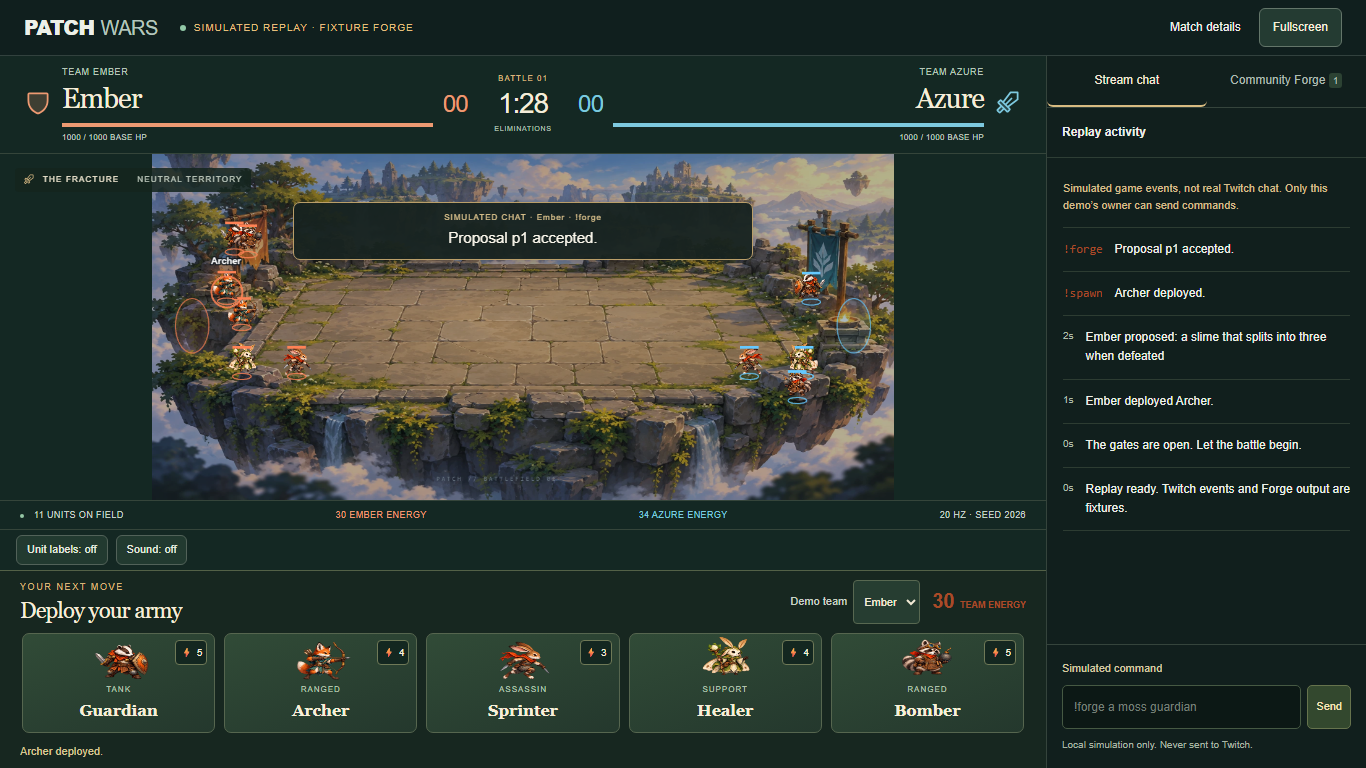
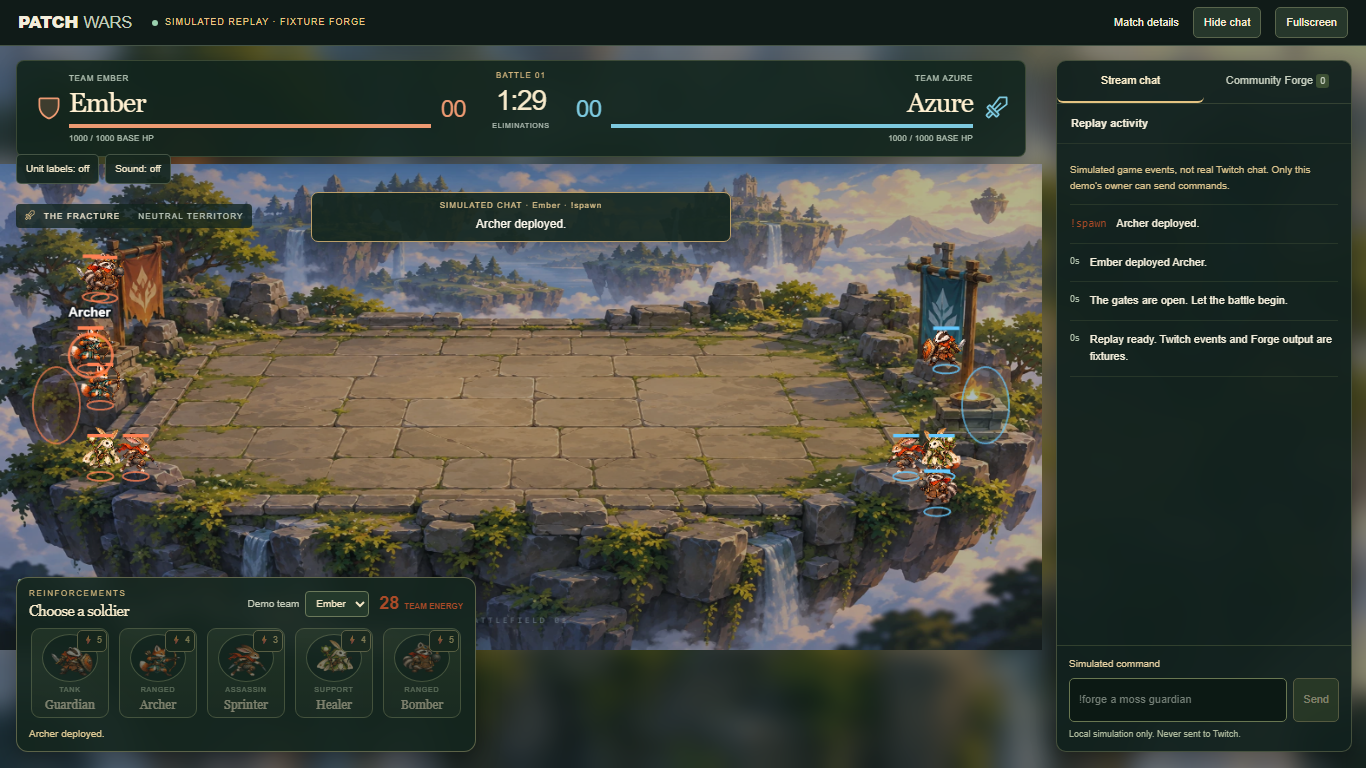
docs(stream): record stage screenshots and regression checks

diff --git a/docs/live-experience.md b/docs/live-experience.md
@@ -5,18 +5,20 @@ The video reference combines a broadcast battle with controls on top of Twitch's
 ## Open the complete web view
 
 1. Open `/dashboard`, create a Twitch match, authorize the broadcaster and start combat.
-2. Select **Live arena**. `/play/<room-id>` fills the browser with the arena, deployment cards and community panel. Fullscreen expands the whole layout. Phones stack the same components without horizontal page scrolling.
+2. Select **Live arena**. `/play/<room-id>` fills the window with a stream stage: compact score HUD, soldier-icon controls floating over the battlefield, and chat in the same viewport. Fullscreen expands the whole layout. On phones, chat docks to the bottom while the battle and soldier icons remain visible above it. **Hide chat / Show chat** changes viewing space without remounting the renderer.
 3. Select **Sign in with Twitch to deploy**. This is viewer authorization, not host access. It uses the existing registered `/auth/twitch/callback` and exact allowed browser origin. The account remains server-side; browser responses never contain OAuth tokens.
 4. Select a unit card to spend the same shared team energy as `!spawn <unit>`. No money or Bits are charged. Cards also include approved generated units as they enter the catalog. The server enforces energy, cooldowns, caps, pause and phase rules, independently of button state.
-5. Select **Load Twitch chat** to embed actual Twitch chat for the selected connected channel. Twitch chat may require its own login and third-party browser storage permission. Use **Open chat** if the browser blocks the embed. The parent parameter is derived from the current hostname, not user input.
+5. Actual Twitch chat loads automatically for the selected connected live channel. Twitch chat may require its own login and third-party browser storage permission. **Unload chat** removes the embed; **Load Twitch chat** restores it. Use **Open chat** if the browser blocks the embed. The parent parameter is derived from the current hostname, not user input.
 6. The game command field sends actions directly to the server under the signed-in viewer's identity; it does not post conversation to Twitch. Conversation belongs in embedded Twitch chat. Both input paths reach the same game handler and share viewer cooldown/vote identity. Receipts distinguish TWITCH CHAT, VIEWER CONTROLS and TWITCH EXTENSION.
 7. The Community Forge tab shows current proposals, phase, generated name/status and balance count. Vote buttons submit the existing `!vote <proposal-id>` command. The host still controls round transitions in the dashboard.
 
 Demo matches remain explicitly labelled simulated/fixture-based. Only the demo owner may send local commands; opening a public demo link does not grant ownership. The new viewer surfaces provide no pause/reset/settings/invitation controls. OBS links remain read-only and control-free.
 
+Open `/stream-demo` for a direct, owned simulation of this stream-stage layout. It creates and starts a fixture room, then navigates to `/play/<room-id>`. This is a local preview, not a Twitch broadcast. The earlier operator dashboard remains available for connection and match management.
+
 ## Native extension: what is implemented
 
-`apps/extension` is a separate transparent video-overlay frontend. It loads the official Twitch Extension Helper as its first script, consumes refreshed `onAuthorized` tokens, requests identity sharing, displays catalog-driven unit cards and submits game commands. It does not render a second battle over the broadcast. OBS supplies the battle video beneath it.
+`apps/extension` is a separate transparent video-overlay frontend. It loads the official Twitch Extension Helper as its first script, consumes refreshed `onAuthorized` tokens, requests identity sharing, displays a compact soldier-icon tray and submits game commands. Extra Forge/command input is behind a disclosure so it does not cover the battle by default. It does not render a second battle over the broadcast. OBS supplies the battle video beneath it.
 
 The EBS routes verify HS256 signatures using the separate, base64-decoded Twitch Extension secret, token expiry, role, channel and linked user identity. A viewer cannot supply a team or another channel. State discovery selects the one connected match for the token's channel. Requests carry UUIDs for duplicate suppression and use the same user ID as ordinary Twitch chat. Only the configured extension CDN origin receives cross-origin API access; other app routes retain their origin and ownership rules. Public extension assets have a separate CSP allowing the helper and Twitch framing; dashboards retain self-only frame ancestors. No signing secret enters the built frontend.
 
@@ -42,6 +44,8 @@ No paid soldier products, Bits transactions, wallet or native-extension approval
 ## Verification
 
 On October 29, 2026, typecheck, lint, the web/server build, the native extension build, all **127 automated tests across 25 files** and the final **23 Chromium browser tests** passed. The complete browser suite used one isolated built server with normal API limits. Screenshots include `screenshots/live-arena-desktop.png` and `screenshots/live-arena-mobile.png`.
+
+The subsequent stream-stage correction was verified again with the same 127 automated and 23 browser checks. The direct `/stream-demo` entry creates an owned room, starts it and opens the stage. The browser test asserts a laptop battle surface over 700 pixels tall in a 768-pixel viewport, an overlaid soldier tray, mobile chat/tray fit within the same screen and a retained canvas when chat is hidden/restored. Chat-embed calls and native Helper authorization remain mocked in those tests. Desktop/mobile screenshots were refreshed after the correction. No new real Twitch broadcast, native extension activation or real chat login was performed.
 
 New tests verify signed-token expiry/signatures/roles, identity linking, channel/team binding, duplicate and cooldown handling, viewer OAuth session binding, callback replay rejection, sign-out and host-permission denial. Browser tests click a real demo unit card and inspect its authoritative entity, inspect desktop/phone fit and community tabs, check live sign-in/chat wiring and run the built native frontend against a mocked Twitch Helper/EBS response. Existing Forge, OBS, settings, mobile, fullscreen and recovery checks still pass. One older paused-command test initially hit the legitimate previous-command cooldown; it now explicitly waits for simulation time to advance before pausing. Game timing/rules were not changed to satisfy the assertion.
 

diff --git a/README.md b/README.md
@@ -84,6 +84,8 @@ Presentation readiness checks private setup without generating AI output. Lazy r
 
 **Live arena** opens `/play/:id`: a full-window battle, clickable unit cards, embedded Twitch chat and community Forge voting. Viewers sign in separately to deploy; host permissions and the game economy stay unchanged. A separate **native Twitch video-overlay extension** is implemented in `apps/extension`; build its upload assets with `pnpm build:extension`. Installing it on Twitch requires extension credentials, public HTTPS hosting and Local/Hosted Test. It is not published or Twitch-approved. See the [live view and extension setup guide](docs/live-experience.md).
 
+Open `/stream-demo` for a direct stream-style preview: the battle fills the stage, soldier icons float over it, and chat stays in the same viewport. Mobile docks chat beneath the soldier tray; Hide chat expands the battle without resetting it. Demo activity remains visibly simulated.
+
 ## Free local AI
 
 No OpenAI key is needed with Ollama. See [local AI setup and measured limitations](docs/local-ai.md). The verified development model is `qwen2.5:3b`; `pnpm verify:local-ai` exercises real generation, schema checks and balance. Local generation can take a minute: pause the match during generation, then resume once approved. Demo rooms always remain fixture-based.
